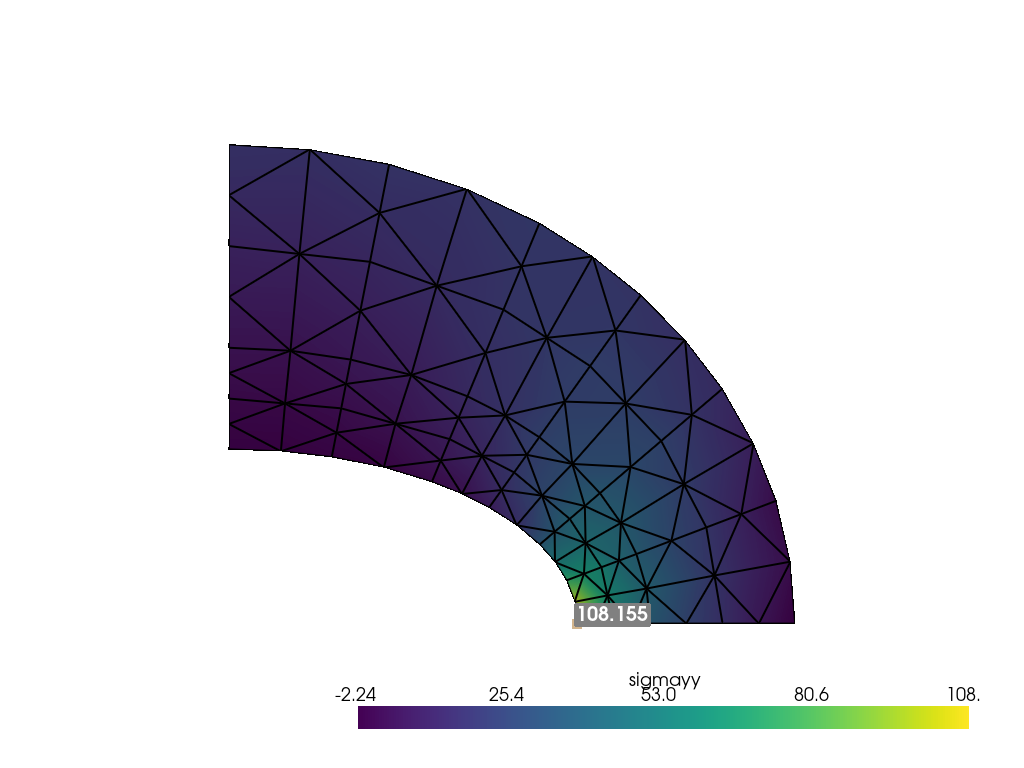
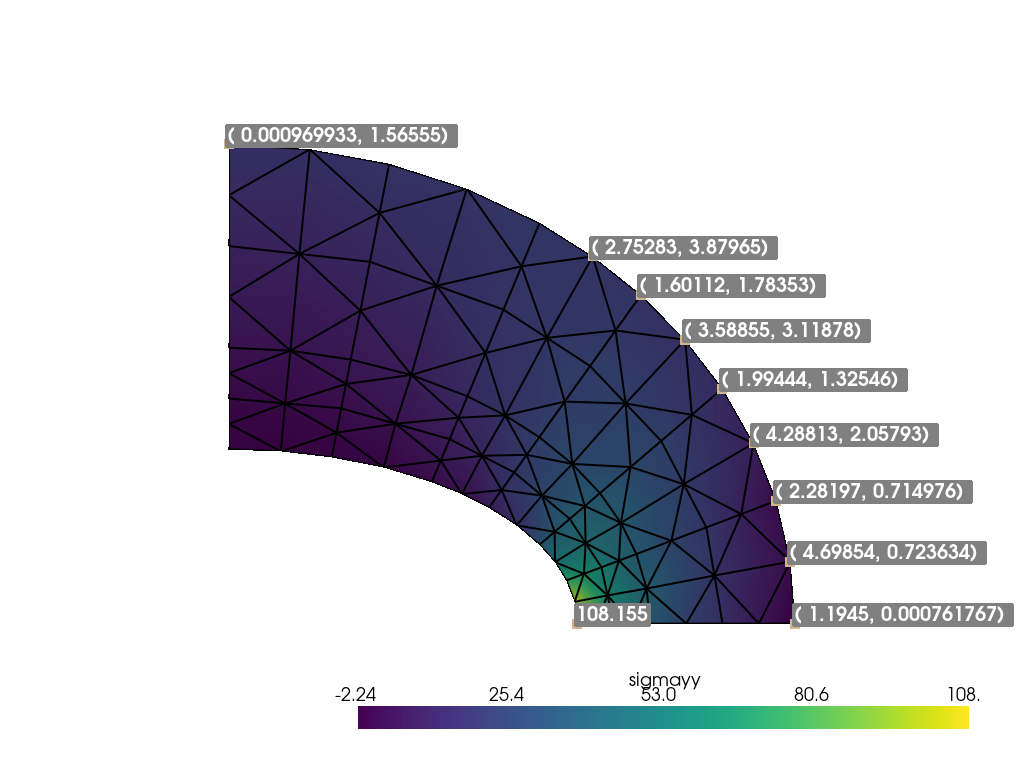
Add output fine-quadrilateron-2d.py

diff --git a/benchmarks_data/structure/elliptic_membrane/GetFEM/fine-quadrilateron-2d.py b/benchmarks_data/structure/elliptic_membrane/GetFEM/fine-quadrilateron-2d.py
@@ -45,6 +45,8 @@ md.add_initialized_data("nu", nu)
 md.add_isotropic_linearized_elasticity_pstress_brick(mim, "u", "E", "nu")
 md.add_normal_source_term_brick(mim, "u", "NeumannData", OUTER_BOUND)
 # md.add_source_term(mim, "(Reshape(NeumannData,qdim(u),meshdim)*Normal).Test_u", OUTER_BOUND)
+md.assembly()
+RHS = md.rhs()
 md.add_initialized_data("r1", [0, 0])
 md.add_initialized_data("r2", [0, 0])
 md.add_initialized_data("H1", [[1, 0], [0, 0]])
@@ -59,16 +61,24 @@ md.solve()
 U = md.variable("u")
 grad_u = gf.compute_gradient(mfu, U, mfd)
 sigmayy = clambda * (grad_u[0, 0] + grad_u[1, 1]) + 2.0 * mu * grad_u[1, 1]
-mfu.export_to_vtk("fine-quadrilateron-2d.vtk", "ascii", mfd, sigmayy, "sigmayy")
+mfu.export_to_vtk(
+    "fine-quadrilateron-2d.vtk", "ascii", mfd, sigmayy, "sigmayy", mfu, RHS, "RHS"
+)
 
 m = pv.read("fine-quadrilateron-2d.vtk")
 pl = pv.Plotter()
 pl.add_mesh(m, show_edges=True, line_width=2, scalars="sigmayy")
 pl.add_point_labels(
-    m.points[np.all(m.points == [2.0, 0.0, 0.0], axis=1)],
-    [str(m["sigmayy"][np.all(m.points == [2.0, 0.0, 0.0], axis=1)][0])],
-    point_size=10,
-    font_size=20,
-    text_color="white",
+    m.points[20], [str(m["sigmayy"][20])], point_size=10, font_size=20, text_color="white",
 )
+
+for i in [42, 45, 47, 52, 54, 61, 63, 70, 84]:
+    pl.add_point_labels(
+        m.points[i],
+        ["( " + str(m["RHS"][:, 0][i]) + ", " + str(m["RHS"][:, 1][i]) + ") "],
+        point_size=10,
+        font_size=20,
+        text_color="white",
+    )
+
 pl.show(cpos="xy", screenshot="fine-quadrilateron-2d.png")
